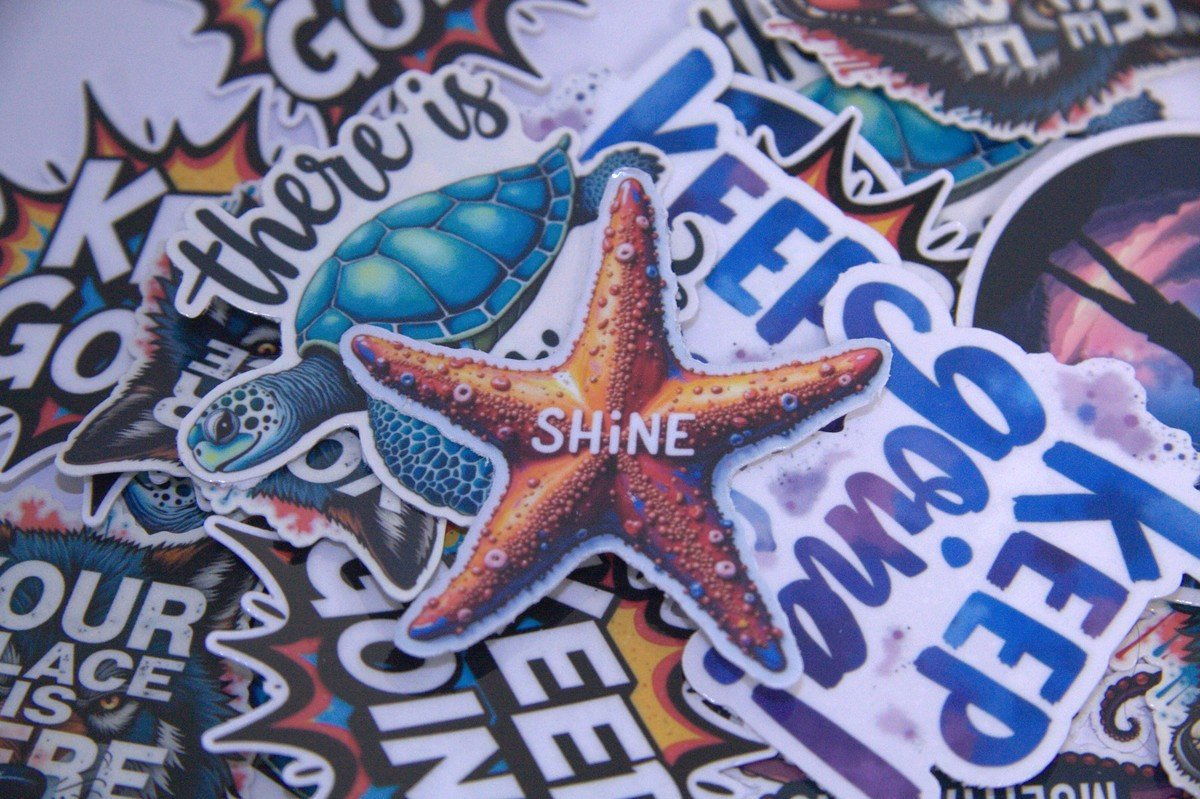
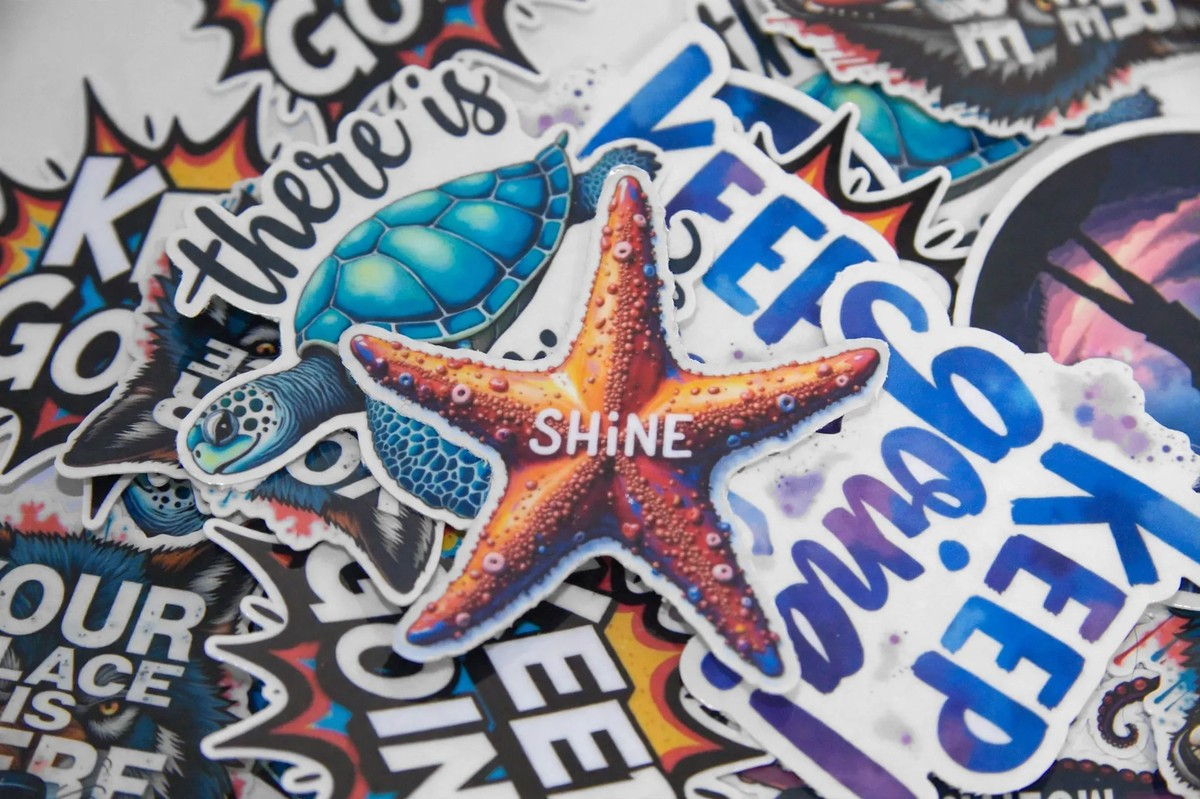
Motivational stickers: swap 4 studio light-grey backgrounds (02, 05, 10, 13) + remove duplicate 03 and screenshot 19

diff --git a/src/lib/work.ts b/src/lib/work.ts
@@ -35,7 +35,6 @@ export const workGroups: WorkGroup[] = [
       "Die-cut motivational sticker ranges — sea creatures, animals, and keep-going quotes, cut to any shape.",
     items: [
       { src: w("motivational", 2), caption: "Keep Going collection" },
-      { src: w("motivational", 3), caption: "Keep Going sticker pile" },
       { src: w("motivational", 4), caption: "Sea-creature and quote mix" },
       { src: w("motivational", 5), caption: "Die-cut assortment on white" },
       { src: w("motivational", 10), caption: "Motivational die-cut assortment" },
@@ -43,7 +42,6 @@ export const workGroups: WorkGroup[] = [
       { src: w("motivational", 16), caption: "It's a new day — rainbow quote sticker" },
       { src: w("motivational", 17), caption: "There is time — sea turtle sticker" },
       { src: w("motivational", 18), caption: "Shine — starfish sticker" },
-      { src: w("motivational", 19), caption: "Turn your pain into purpose — quote sticker" },
       { src: w("motivational", 20), caption: "Motivational die-cut sticker" },
     ],
   },
